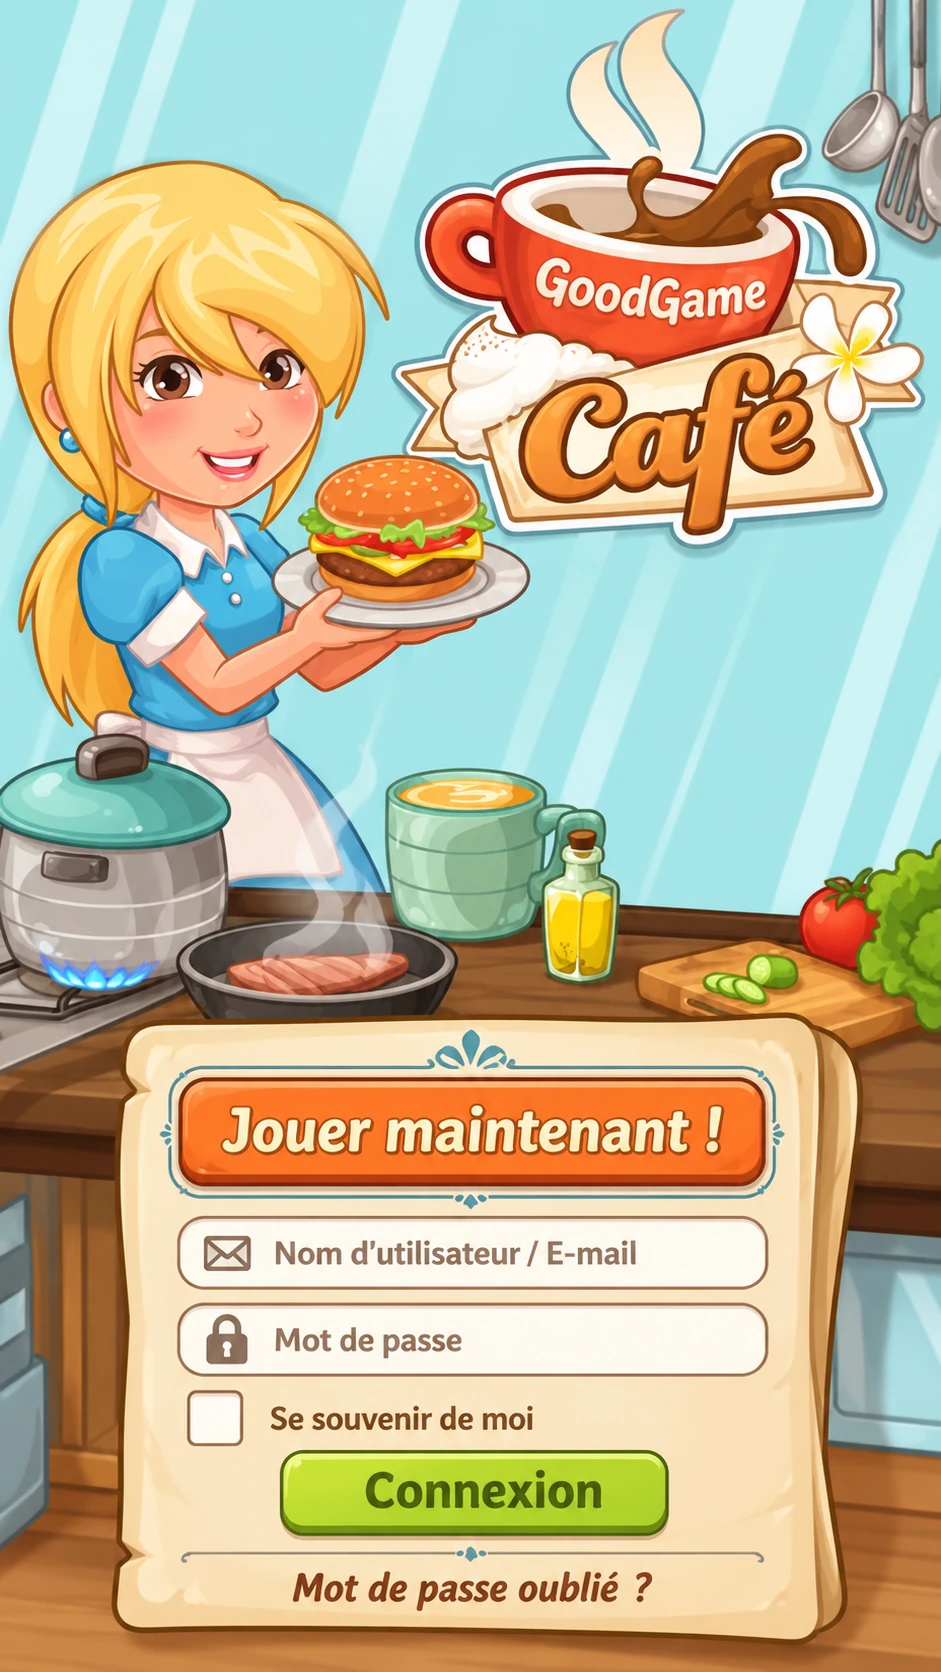
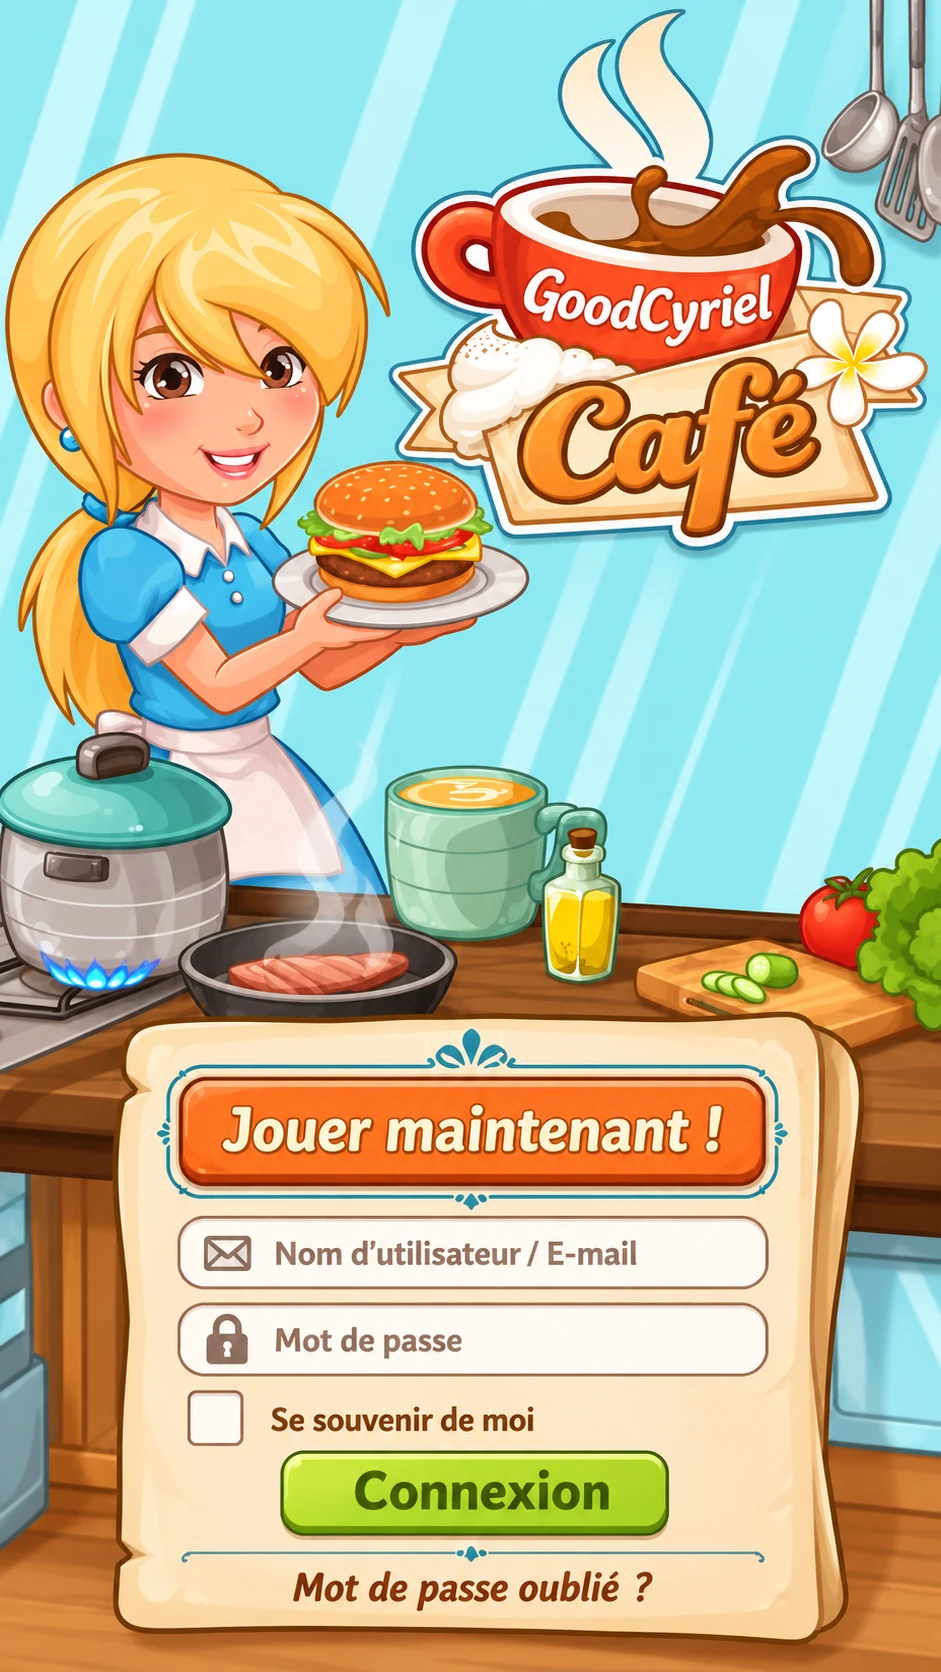
Café : bonne version de l'image de connexion (GoodCyriel Café)
Claude-Session: https://claude.ai/code/session_01R1eoJi1FwXmUyYaZZLwVWd

diff --git a/js/etapes/cafe.js b/js/etapes/cafe.js
@@ -52,7 +52,7 @@ const TEXTES = {
   // ci-dessous servent aux lecteurs d'écran et aux messages.
   connexion: {
     image: 'images/connexion-cafe.webp',
-    titre: 'GoodGame Café',
+    titre: 'GoodCyriel Café',
     jouerMaintenant: 'Jouer maintenant !',
     pseudo: 'Nom d’utilisateur / E-mail',
     pseudoValeur: 'Cyriel',
@@ -1995,7 +1995,7 @@ function demarrer({ scene, son, fx, memoire, debug, aller: allerEtape, numero })
     const a = ecran.querySelector('.gc-affiche').getBoundingClientRect();
     const auNiveau = (fraction) => ((a.top - haut + a.height * fraction) / H) * 100;
     const arrets = [
-      { a: auNiveau(0.02), ms: 1000 },   // juste avant « GoodGame »
+      { a: auNiveau(0.02), ms: 1000 },   // juste avant « GoodCyriel »
       { a: auNiveau(0.43), ms: 1300 },   // juste avant « Café »
     ];
     let p = 0;

diff --git a/README.md b/README.md
@@ -178,7 +178,7 @@ leurs positions sont en % de l'image dans `style.css` (section « Écran de
 connexion »). Pour changer d'image, garder la même mise en page ou reprendre
 ces pourcentages. L'écran apparaît comme sur une vieille connexion :
 « Connexion au serveur… », puis l'image qui se dessine ligne par ligne, avec
-deux arrêts juste avant « GoodGame » et « Café » ; le pseudo se remplit tout
+deux arrêts juste avant « GoodCyriel » et « Café » ; le pseudo se remplit tout
 seul. Les fois suivantes, c'est trois fois plus rapide. « Mot de passe
 oublié ? » donne l'indice ; « Jouer maintenant ! » ramène au mot de passe.
 
